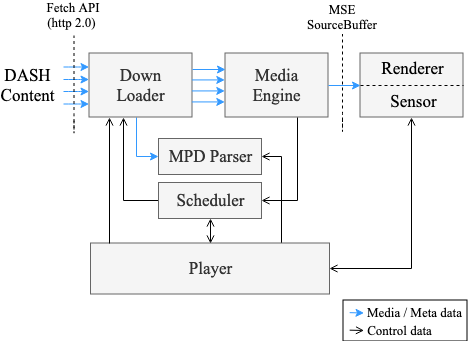
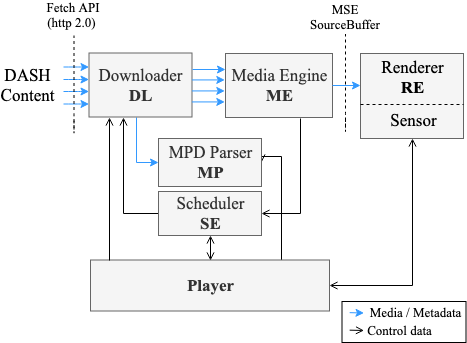
update README stuff. Camera-ready paper and some new figures

diff --git a/README.md b/README.md
@@ -13,11 +13,11 @@ This repository contains the **proof-of-concept** implementation of the most adv
 Further information about the individual modules can be found below.
 
 This implementation was also submitted to the demo track of ACM Multimedia Systems Conference [ACM MMSys'19](http://www.mmsys2019.org/participation/demo-track/) and has been accepted to
-appear in the conference. The submitted version of the paper (not camera ready yet) can be downloaded [here](https://arxiv.org/pdf/1903.02971.pdf). Please cite our paper if you use something from this repository:
+appear in the conference. The submitted version of the paper can be downloaded from [here](https://arxiv.org/pdf/1903.02971.pdf). Please cite our paper if you use something from this repository:
 
     @misc{podborski2019html5,
         title={HTML5 MSE Playback of MPEG 360 VR Tiled Streaming},
-        author={Dimitri Podborski and Jangwoo Son and Gurdeep Singh Bhullar and Cornelius Hellge and Thomas Schierl},
+        author={Dimitri Podborski and Jangwoo Son and Gurdeep Singh Bhullar and Robert Skupin and Yago Sanchez and Cornelius Hellge and Thomas Schierl},
         year={2019},
         eprint={1903.02971},
         archivePrefix={arXiv},
@@ -35,6 +35,27 @@ Thank you!
 ## Features
 
 Software in this repository implements a subset of current OMAF version 1 standard, including the following main features:
+
+### JavaScript Player for HEVC-based viewport-dependent OMAF video profile with MCTS (HEVC Tiles)
+
+* Fully tested on Safari 12.02 (macOS)
+* For more infos on Microsoft Edge browser, please check out `edgebrowser` branch and read the documentation
+* Viewport-dependent streaming for static DASH MPD with *SegmentTemplate*
+* HTML5 video element with MSE is used for decoding of the media segments
+  * JavaScript repackaging to a single *hvc1* track for MSE
+* Rendering using webGL and [three.js](https://github.com/mrdoob/three.js/)
+  * Cubemap projection
+  * Equirectangular projection
+  * RWPK (tested with [HHI content creation tools](./omaf-file-creation/README.md) and [Nokia OMAF Creator](https://github.com/nokiatech/omaf))
+* SRQR is supported to the extent needed for tile-based streaming
+* DASH Preselection descriptor is used to determine the depencencies between Adaptation Sets
+* `'rwpk'` box is used to correctly render the video texture of the corresponding *extractor track*
+* Controlling of the buffer size
+* UI controls for Play / Pause / Load next MPD / toggle fullscreen mode / zoom
+* Rendering of debug information such as:
+  * Cube boundaries
+  * SRQR high quality region vectors
+* Plot data with [google charts API](https://developers.google.com/chart/)
 
 ### File Creation for HEVC-based viewport-dependent OMAF video profile with MCTS (HEVC Tiles)
 
@@ -58,27 +79,6 @@ Software in this repository implements a subset of current OMAF version 1 standa
   * linux
 * More details for file creation can be found [here](./omaf-file-creation/README.md)
 
-### JavaScript Player for HEVC-based viewport-dependent OMAF video profile with MCTS (HEVC Tiles)
-
-* Fully tested on Safari 12.02 (macOS)
-* For more infos on Microsoft Edge browser, please check out `edgebrowser` branch and read the documentation
-* Viewport-dependent streaming for static DASH MPD with *SegmentTemplate*
-* HTML5 video element with MSE is used for decoding of the media segments
-  * JavaScript repackaging to a single *hvc1* track for MSE
-* Rendering using webGL and [three.js](https://github.com/mrdoob/three.js/)
-  * Cubemap projection
-  * Equirectangular projection
-  * RWPK (tested with [HHI content creation tools](./omaf-file-creation/README.md) and [Nokia OMAF Creator](https://github.com/nokiatech/omaf))
-* SRQR is supported to the extent needed for tile-based streaming
-* DASH Preselection descriptor is used to determine the depencencies between Adaptation Sets
-* `'rwpk'` box is used to correctly render the video texture of the corresponding *extractor track*
-* Controlling of the buffer size
-* UI controls for Play / Pause / Load next MPD / toggle fullscreen mode / zoom
-* Rendering of debug information such as:
-  * Cube boundaries
-  * SRQR high quality region vectors
-* Plot data with [google charts API](https://developers.google.com/chart/)
-
 ## 1. JavaScript Player documentation
 
 The JavaScript player implementation was tested on Safari browser with support of HEVC video through HTML5 Media Source Extensions API. In addition, the WebGL API is used for rendering, using region-wise packing metadata defined in OMAF.
@@ -99,11 +99,11 @@ Before ME processes the segments each of the segments consist of multiple *hvc1*
 
 ### Rendering
 
-After the repackaged segment is processed by the MSE SourceBuffer, the browser decodes the video and the video texture is rendered by the RE module using OMAF region-wise packing metadata. Rendering module is using a fragment shader to unpack the regions. The figure below visualizes the rendering process based on an example of a CMP video with 12 high-quality tiles and 12 low-quality tiles:
+After the repackaged segment is processed by the MSE SourceBuffer, the browser decodes the video and the video texture is rendered by the RE module using OMAF region-wise packing metadata. Rendering module is using a fragment shader to unpack the regions. The figure below visualizes the rendering process based on an example of a CMP video where each face of the cube is divided into four tiles while the decoded picture is composed of 12 high-resolution and 12 low-resolution tiles:
 
 ![rendering](img/renderer.png "Rendering")
 
-The 48 triangular surfaces of the cube as depicted in figure (c) can be represented as a 2D plane like in figure (b). The RE uses OMAF metadata to render the resolved image correctly at the cube faces as shown in figure (b). The Region-wise Packing (RWPK) in the OMAF metadata has top-left packed and unpacked coordinates, width, height and rotation value of tiles for all tracks. Since the position and size of the cube faces are always the same, the image in figure (b) can be assumed to be an unpacked image. Therefore, the RE sets the rendering range of the figure (a) using the RWPK metadata, and renders the tiles of the resolved image to the cube faces of the figure (b). However, when there is a change in the viewport position, the RE has to set different metadata for the corresponding track. In the implementation, when the manifest file is loaded, the RE module is initialized with all RWPK metadata to be prepared for all tracks.
+The 12 triangular surfaces of the cube as depicted in figure (c) can be represented as a 2D plane like in figure (b). The fragment shader of the RE module uses OMAF metadata to render the resolved image correctly at the cube faces as shown in figure (b). The Region-wise Packing (RWPK) of the OMAF metadata has top-left packed and unpacked coordinates, width, height and rotation value of tiles for all tracks. Since the shader reconstructs the position of pixels based on OMAF metadata, the image in figure (b) can be assumed to be a region-wise unpacked image. Therefore, the RE module sets the rendering range of the figure (a) using the RWPK metadata, and renders the tiles of the resolved image to the cube faces of the figure (b). However, when there is a change in the viewport position, the RE module has to set different metadata for the corresponding track. In the implementation, when the manifest file is loaded, the RE module is initialized with all RWPK metadata to be prepared for all possible (extractor) tracks.
 
 ## 2. Content Creation Tools (OMAF Generator)
 
